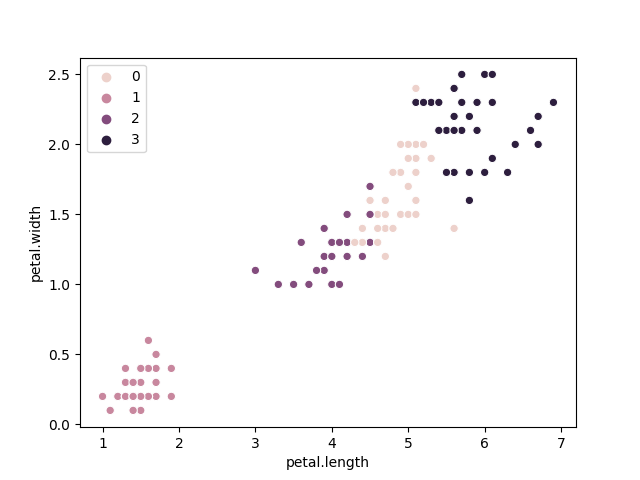
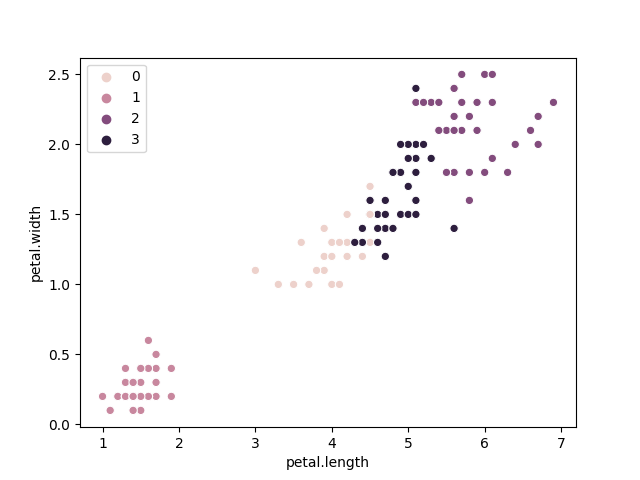
Final Version

diff --git a/purity.py b/purity.py
@@ -1,13 +1,13 @@
 import pandas as pd
 import numpy as np
 from sklearn.cluster import KMeans
-import numpy as np
 from sklearn import metrics
 import seaborn as sns
+from collections import Counter
 
 # Function to visualize groups
-def visualize(df, n_cluster):
-    s = sns.scatterplot(data=df, x="petal.length", y="petal.width", hue=df['pred'].tolist())
+def visualize(df, Model, n_cluster):
+    s = sns.scatterplot(data=df, x="petal.length", y="petal.width", hue=Model)
     fig = s.get_figure()
     fig.savefig('image/kmeans_clusters_{}.png'.format(n_cluster))
     fig.clf()
@@ -15,14 +15,18 @@ def visualize(df, n_cluster):
 # Function to apply kmeans
 def apply_model(x, k):
     Model = KMeans(k)
-    Model.fit(x)
-    return Model
+    return Model.fit_predict(x)
 
 # Function to calculate purity
-def purity(df):
-    confusion_matrix = metrics.cluster.contingency_matrix(df['variety'], df['pred'])
-    # Taking the sum of the ratings and dividing by the total
-    return np.sum(np.amax(confusion_matrix, axis=0)) / np.sum(confusion_matrix) 
+def purity_metric(target, prediction):
+   
+    majority_sum = 0  
+    for cl in set(prediction):
+        labels_cl = Counter(l for l, c in zip(target, prediction) if c == cl)
+        majority_sum += max(labels_cl.values())
+
+    return majority_sum / len(prediction)
+
 
 if __name__ == "__main__":
     
@@ -33,18 +37,11 @@ if __name__ == "__main__":
     for n_cluster in [2,3,4]:
         # Apply model
         Model = apply_model(x, n_cluster)
-
-        import pdb; pdb.set_trace()
-
-        # Saving result model in a column
-        df['pred'] = Model.labels_
-
         # Saving results in png file
-        visualize(df, n_cluster)
-    
+        visualize(df, Model, n_cluster)
         # Calculating purity
-        purity_value = purity(df)
-
+        purity_value = purity_metric(df['variety'], Model)
+   
         print('The purity value with {} clusters is: '.format(str(n_cluster)), purity_value)
 
 

diff --git a/README.md b/README.md
@@ -1,1 +1,15 @@
 # purity
+
+# KMeans_Implementation
+
+- Para executar o código é necessário executar o seguinte comando:
+
+    - python purity.py
+
+- O código irá salvar imagens dos agrupamentos na pasta image
+
+- É necessário que tenha as bibliotecas sklearn, pandas, seaborn instaladas no ambiente, caso não tenha, instalar utilizando os seguintes comandos no prompt:
+
+    - pip install sklearn
+    - pip install pandas
+    - pip install seaborn
